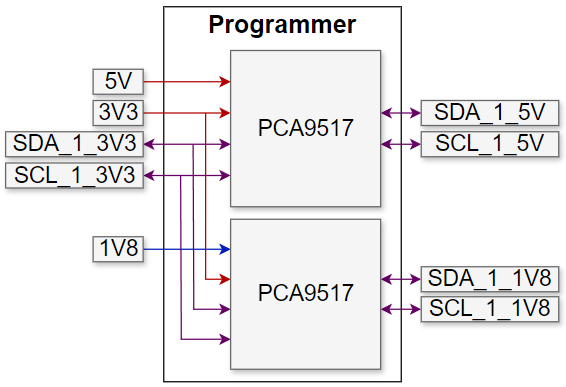
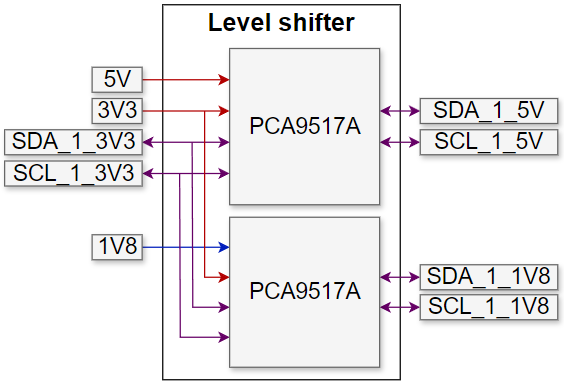
completed the components section; minor updates

Changed region(s): [[0.0, 0.0, 0.9947, 0.9974], [0.422, 0.2805, 0.633, 0.374], [0.3316, 0.8727, 0.422, 0.9039]]

diff --git a/README.md b/README.md
@@ -20,17 +20,17 @@
   - [Programs used](#programs-used)
   - [File structure](#file-structure)
 - [:gear: Components](#gear-components)
-  - [ESP32-WROVER-B](#esp32-wrover-b)
+  - [ESP32-WROVER-IB](#esp32-wrover-ib)
   - [ADT7410](#adt7410)
   - [SHT85](#sht85)
   - [SEN0232](#sen0232)
-  - [SCD30](#scd30)
   - [OPT3001](#opt3001)
-  - [SGP40](#sgp40)
-  - [MICS5524](#mics5524)
+  - [MiCS-5524](#mics-5524)
   - [SN-GCJA5L](#sn-gcja5l)
+  - [SGP40](#sgp40)
   - [BMI270](#bmi270)
   - [BME280](#bme280)
+  - [SCD30](#scd30)
   - [CP2102N](#cp2102n)
   - [PCA9517A](#pca9517a)
   - [MCP3221](#mcp3221)
@@ -119,7 +119,7 @@ The following list contains the components needed to build the device:
         + [ Link datasheet SN-GCJA5L ]( https://www.mouser.com/catalog/specsheets/Panasonic_SN-GCJA5%20Data%20Sheet.pdf )
     + 1x BMI270 6 axes IMU sensor
         + [ Link datasheet BMI270 ]( https://download.mikroe.com/documents/datasheets/bst-bmi270-ds000-2_datasheet.pdf )
-    + 1x BME280 humidity and temperature sensor
+    + 1x BME280 pressure, humidity and temperature sensor
         + [ Link datasheet BME280 ]( https://www.mouser.com/datasheet/2/783/BST-BME280-DS002-1509607.pdf )
     + 1x CP2102N USB-UART bridge
         + [ Link datasheet CP2102N ]( https://www.silabs.com/documents/public/data-sheets/cp2102n-datasheet.pdf )
@@ -129,105 +129,206 @@ The following list contains the components needed to build the device:
         + [ Link datasheet MCP3221 ]( https://ro.mouser.com/datasheet/2/268/mchp_s_a0002844534_1-2274805.pdf )
 + auxiliary components
     + 1x barrel jack connector and wall adapter
-    + 4x M3x30 screws, 4x M3 nuts and 4x spacers
+    + 4x M3x30 screws and 4x spacers
     + multiple male and female headers, cables & test points
 
 
+<!-- ------------------------------------------------------------------------------------------------------------------------------------------------------ ESP32-WROVER-IB -->
+## ESP32-WROVER-IB
 
-
-
-<!-- ------------------------------------------------------------------------------------------------------------------------------------------------------ ESP32-WROVER-B -->
-## ESP32-WROVER-B
-[ ESP32-WROVER-B ]( https://www.espressif.com/sites/default/files/documentation/esp32-wrover-b_datasheet_en.pdf )
-
+**FIGURE 1: ESP32-WROVER-IB module**
 
 <img src="docs/components/ESP32_module.jpg" width="25%" height="auto">
 
+The microcontroller chosen to be used is the [ ESP32-WROVER-IB ]( https://www.espressif.com/sites/default/files/documentation/esp32-wrover-b_datasheet_en.pdf ) module from Espressif.
+The resources available on the Internet, more precisely examples and various libraries, make it a perfect choice for IoT applications.
+
+
+**FIGURE 2: ESP32 functional blocks**
+
 <img src="docs/components/ESP32_functional_block.jpg" width="50%" height="auto">
+
+The module features integrated wireless communication, including Wi-Fi. 
+It also supports typical intraboard serial communication protocols such as SPI, I2C, and UART. 
+The power of the antenna used for data transmission can be adjusted depending on its position in relation to the router, which helps achieve lower energy consumption. 
+Its minimalist design takes up little space, making it easy to integrate into the device.
+
 
 <!-- ------------------------------------------------------------------------------------------------------------------------------------------------------ ADT7410 -->
 ## ADT7410
-[ ADT7410 ]( https://ro.mouser.com/datasheet/2/609/ADT7410-1503456.pdf )
+
+The [ ADT7410 ]( https://ro.mouser.com/datasheet/2/609/ADT7410-1503456.pdf ) is a high accuracy **temperature sensor**, capable of measuring temperatures between −55 °C and +150 °C. 
+Its accuracy ranges from ±0.4°C to ±1.0°C, depending on the measurement range and supply voltage. 
+The resolution of the ADC can be selected between 13 and 16 bits ( sign + 12 or 15 data bits ).
+Alerts such as overtemperature, undertemperature, and critical overtemperature can be configured using the INT and CT pins, with programmable limit settings. 
+The INT pin can operate in either interrupt mode or comparator mode.
+
+The sensor communicates via the I2C protocol, supporting speeds of up to 400 kHz.
+The last two I2C address bits are configurable through the A0 and A1 pins, allowing for four possible address variations. 
+It operates at a supply voltage range of 2.7V to 5.5V.
 
 
 <!-- ------------------------------------------------------------------------------------------------------------------------------------------------------ SHT85-->
 ## SHT85
-[ SHT85 ]( https://www.mouser.com/datasheet/2/682/Sensirion_Humidity_Sensors_SHT85_Datasheet-1501398.pdf )
+
+The [ SHT85 ]( https://www.mouser.com/datasheet/2/682/Sensirion_Humidity_Sensors_SHT85_Datasheet-1501398.pdf ) is a very high accuracy **humidity and temperature sensor**.
+Its measurement ranges are [ 0, 100 ] %RH for humidity and [ -40, 105 ] °C for temperature, with a typical accuracy of ±1.5% RH ( over the range [ 0, 80 ] %RH ) and ±0.1°C ( for the range [ 20, 50 ] °C ). 
+The package design ensures the best possible thermal coupling to the environment and decoupling from potential heat sources on the main board. 
+It features a PTFE membrane that protects the sensor opening from liquids and dust according to the IP67 standard, without affecting the response time of the RH signal. 
+This makes it suitable for use in harsh environmental conditions.
+Additionally, data and commands are protected with an 8-bit CRC checksum, which increases communication reliability.
+
+The sensor uses the I2C protocol, supporting speeds up to 1 MHz and a single I2C address.
+It operates at voltages ranging from 2.15V to 5.5V, with a typical operating voltage of 3.3V.
+
 
 <!-- ------------------------------------------------------------------------------------------------------------------------------------------------------ SEN0232 -->
 ## SEN0232
-[ SEN0232 ]( https://www.mouser.de/pdfdocs/SEN0232_Web.pdf )
 
+The [ SEN0232 ]( https://www.mouser.de/pdfdocs/SEN0232_Web.pdf ) is a plug and play **sound level meter** board.
+Its measurement range is 30 dBA to 150 dBA, with a measurement error of ±1.5 dB. 
+An important aspect is that the A-weighted decibel ( dBA ) is an expression of the relative loudness of sounds as perceived by the human ear, meaning the sound level is normalized to human hearing. 
+The sensor's output is an analog signal ranging from 0.6V to 2.6V.
 
-<!-- ------------------------------------------------------------------------------------------------------------------------------------------------------ SCD30 -->
-## SCD30
-[ SCD30 ]( https://www.mouser.com/datasheet/2/682/Sensirion_CO2_Sensors_SCD30_Datasheet-1901872.pdf )
+It can operate on either 3.3V or 5V voltage levels.
 
 
 <!-- ------------------------------------------------------------------------------------------------------------------------------------------------------ OPT3001 -->
 ## OPT3001
-[ OPT3001 ]( https://www.ti.com/lit/ds/symlink/opt3001.pdf?ts=1630915821822 )
 
+The [ OPT3001 ]( https://www.ti.com/lit/ds/symlink/opt3001.pdf?ts=1630915821822 ) is an **ambient light sensor** capable of measuring values between 0.01 lux and 83 klux. 
+The spectral response of the sensor closely matches the photopic response of the human eye and includes significant infrared rejection, typically rejecting over 99% of IR. 
+This strong IR rejection also helps maintain high accuracy when mounting the sensor under dark glass. 
+Additionally, the effects of 50-Hz and 60-Hz noise from typical light bulbs are minimized by integrating the results over either 100 ms or 800 ms. 
+Interrupts can be generated using the INT pin by comparing the measurement results to programmable low and high limit values.
 
-<!-- ------------------------------------------------------------------------------------------------------------------------------------------------------ SGP40 -->
-## SGP40
-[ Link datasheet SGP40 ]( https://ro.mouser.com/datasheet/2/682/Sensirion_Gas_Sensors_Datasheet_SGP40-2001008.pdf )
+The sensor uses the I2C protocol, with speeds of up to 2.6 MHz. 
+There are four possible I2C addresses, selectable via the ADDR pin by connecting it to GND, VDD, SDA, or SCL. 
+Its operating voltage is 3.3V.
+
 
 <!-- ------------------------------------------------------------------------------------------------------------------------------------------------------ MICS5524 -->
-## MICS5524
-[ MICS5524 ]( https://cdn-shop.adafruit.com/product-files/3199/MiCS-5524.pdf )
+## MiCS-5524
+
+The [ MiCS-5524 ]( https://cdn-shop.adafruit.com/product-files/3199/MiCS-5524.pdf ) is an **indoor gas detector** for carbon monoxide and natural gas leakages.
+The sensor can detect multiple gases, namely carbon monoxide ( CO ), ethanol ( C2H6OH ), hydrogen ( H2 ), ammonia ( NH3 ) and methane ( CH4 ), at various concentrations. 
+However, it cannot distinguish which specific gas is being detected.
+
+The sensor is essentially composed of a heater and an external resistor. 
+The voltage across the external resistor can then be measured by an ADC. 
+The operating voltage of the sensor is 5V.
 
 
 <!-- ------------------------------------------------------------------------------------------------------------------------------------------------------ SN-GCJA5L -->
 ## SN-GCJA5L
-[ SN-GCJA5L ]( https://www.mouser.com/catalog/specsheets/Panasonic_SN-GCJA5%20Data%20Sheet.pdf )
+
+The [ SN-GCJA5L ]( https://www.mouser.com/catalog/specsheets/Panasonic_SN-GCJA5%20Data%20Sheet.pdf ) is a laser type **PM sensor**.
+The accuracy of the sensor is ±10% across low to high concentrations. 
+The sensor detects particles using an optical method, with a laser diode as the light-emitting device and a photodiode as the light-receiving device. 
+The laser diode emits light, while the photodiode detects scattered light, which is correlated to the actual floating particles in the air. 
+A microprocessor inside the sensor analyzes the wave profile from the photodiode using a special algorithm, then outputs a converted mass-density.
+
+It provides two digital interfaces: I2C ( up to 400 kHz ) and UART ( fixed at 9600 baud rate ). 
+The I2C address cannot be changed.
+The operating voltage is 5V, but its digital interface supports only 3.3V.
+
+
+<!-- ------------------------------------------------------------------------------------------------------------------------------------------------------ SGP40 -->
+## SGP40
+
+The [ SGP40 ]( https://ro.mouser.com/datasheet/2/682/Sensirion_Gas_Sensors_Datasheet_SGP40-2001008.pdf ) is an **indoor air quality sensor** used for VOC measurements.
+It is designed for air purifiers or demand-controlled ventilation systems.
+The sensor features a temperature controlled micro hotplate, providing a humidity compensated VOC based indoor air quality signal. 
+The output signal can be directly processed by a VOC algorithm to translate the raw signal into a VOC Index, which serves as a robust measure of indoor air quality.
+
+The sensor uses the I2C protocol, supports speeds of up to 400 kHz, and has a single I2C address. 
+The typical operating voltage is 3.3V.
 
 
 <!-- ------------------------------------------------------------------------------------------------------------------------------------------------------ BMI270 -->
 ## BMI270
-[ BMI270 ]( https://download.mikroe.com/documents/datasheets/bst-bmi270-ds000-2_datasheet.pdf )
+
+The [ BMI270 ]( https://download.mikroe.com/documents/datasheets/bst-bmi270-ds000-2_datasheet.pdf ) is a **6-axis IMU sensor**.
+Both the triaxial accelerometer and gyroscope have 16-bit resolution with various programmable ranges. 
+Multiple low-pass filters are available for configuration to reduce noise. 
+There are two I/O pins designated for interrupts and synchronization events.
+
+Two serial interfaces are available: I2C ( up to 400 kHz ) and SPI ( 3 or 4 wires, up to 10 MHz ).
+Its typical working voltage is 1.8 volts.
 
 
 <!-- ------------------------------------------------------------------------------------------------------------------------------------------------------ BME280 -->
 ## BME280
-[ BME280 ]( https://www.mouser.com/datasheet/2/783/BST-BME280-DS002-1509607.pdf )
+
+The [ BME280 ]( https://www.mouser.com/datasheet/2/783/BST-BME280-DS002-1509607.pdf ) is a **humidity, temperature and pressure sensor**.
+It can measure humidity from 0 to 100% RH with an absolute tolerance of ±3% RH ( over the range [ 20%, 80% ] at 25 °C ) and pressure from 300 to 1100 hPa with an accuracy of ±1.0 to ±1.7 hPa, depending on the temperature interval.
+
+The chip supports both I2C ( up to 3.4 MHz ) and SPI ( 3 or 4 wires, up to 10 MHz ) digital interfaces.
+There are two I2C addresses available for selection. 
+Its typical operating voltage is 1.8V, but it can also function at 3.3V according to the datasheet.
+
+
+<!-- ------------------------------------------------------------------------------------------------------------------------------------------------------ SCD30 -->
+## SCD30
+
+The [ SCD30 ]( https://www.mouser.com/datasheet/2/682/Sensirion_CO2_Sensors_SCD30_Datasheet-1901872.pdf ) is a **CO2 sensor, with integrated humidity and temperature measurements**.
+It can measure CO2 concentrations from 400 to 10,000 ppm with an accuracy of ±30 ppm + 3% of the measured value, humidity from 0% to 100% RH with ±3% RH accuracy ( at 25 °C ), and temperature from -40 °C to 70 °C with an accuracy of ±( 0.4 °C + 0.023 * ( T [°C] – 25 °C ) ) over the range of 0°C to 50°C.
+
+The chip supports I2C ( up to 100 kHz ) and UART digital interfaces.
+There is a single I2C address available for selection, and the I2C data is protected with an 8-bit CRC checksum to increase communication reliability. 
+Its operating voltage ranges from 3.3 to 5.5 volts.
 
 
 <!-- ------------------------------------------------------------------------------------------------------------------------------------------------------ CP2102N -->
 ## CP2102N
-[ CP2102N ]( https://www.silabs.com/documents/public/data-sheets/cp2102n-datasheet.pdf )
+
+The [ CP2102N ]( https://www.silabs.com/documents/public/data-sheets/cp2102n-datasheet.pdf ) is a **USB-UART bridge** that can be used to interface a laptop with a microcontroller.
+The number of auxiliary components is kept to a minimum, thus reducing costs and saving space. 
+The chip can be configured using a simple GUI-based configurator. 
+Multiple pins ( such as RST ( Request To Send ) and DTR ( Data Terminal Ready ) ) are available for flow control.
+CP2102N devices enable quick USB connectivity with minimal development effort.
 
 
 <!-- ------------------------------------------------------------------------------------------------------------------------------------------------------ PCA9517A -->
 ## PCA9517A
-[ PCA9517A ]( https://www.farnell.com/datasheets/2578416.pdf )
+
+The [ PCA9517A ]( https://www.farnell.com/datasheets/2578416.pdf ) is an **I2C bus repeater** that provides level shifting between low voltage ( 0.9 to 5.5 V ) and higher voltage ( 2.7 to 5.5 V ) for I2C−bus or SMBus applications.
+It retains all the operating modes and features of the I2C bus system during level shifts and permits the extension of the I2C bus by providing bidirectional buffering for both the SDA and SCL lines.
+The bidirectional buffer isolates the capacitances on both sides, thus enabling two buses with up to 400 pF capacitance each. 
+It supports a frequency of up to 1 MHz. 
+The supply voltages for the two ports are 0.9 to 5.5 V and 2.7 to 5.5 V.
 
 
 <!-- ------------------------------------------------------------------------------------------------------------------------------------------------------ MCP3221 -->
 ## MCP3221
-[ MCP3221 ]( https://ro.mouser.com/datasheet/2/268/mchp_s_a0002844534_1-2274805.pdf )
+
+The [ MCP3221 ]( https://ro.mouser.com/datasheet/2/268/mchp_s_a0002844534_1-2274805.pdf ) is an **SAR ADC with a 12-bit resolution**, featuring one single-ended input and very low power consumption. 
+An on-chip conversion clock enables independent timing for the I2C and conversion clocks.
+
+The sensor uses the I2C protocol and supports speeds up to 400 kHz. 
+The device has a single I2C address set at the factory, but there are 8 chip versions available ( A0 to A7 ), each with its unique address.
+The version is specified after the chip's name ( MCP3221XX ).
+The MCP3221 operates on a single-supply voltage with a broad range of 2.7V to 5.5V.
 
 
 
 
-
-
+<!-- ______________________________________________________________________________________________________________________________________________________ HARDWARE IMPLEMENTATION -->
 # Hardware implementation
 
 In this section, the hardware implementation of the device will be detailed.
 
 For each board, the block diagrams will be presented first, where the connections between the components can be seen. 
-To represent the functionality which they fulfill, the following colors were used:
+The following colors are used to represent the functionality:
 
 - ${\textsf{\color{red}red}}$ and ${\textsf{\color{blue}blue}}$ - DC power supply
 - ${\textsf{\color{orange}orange}}$ - analog signals
 - ${\textsf{\color{purple}purple}}$ - digital signals
 
-After the block diagram, the schematics will be shown, where the main reasons behind the choices made will be explained. 
-The layout and the assembled boards will be presented at the end.
+The layout and assembled boards will be presented at the end.
 
 
-
+<!-- ------------------------------------------------------------------------------------------------------------------------------------------------------ Device architecture -->
 ## Device architecture
 
 
